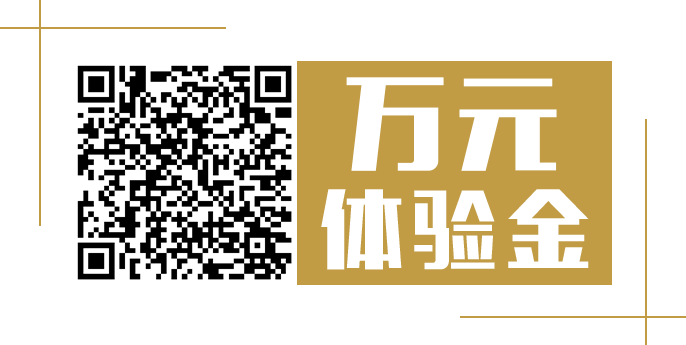
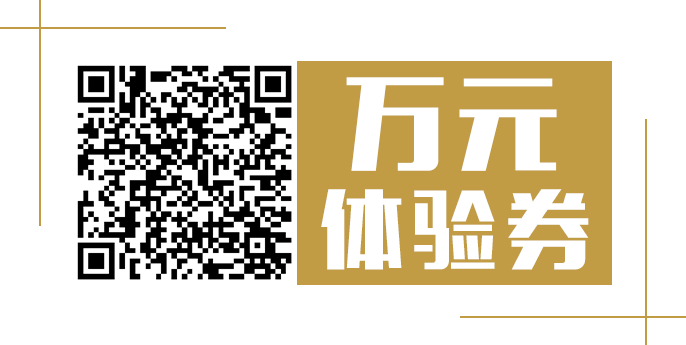
replaceimg

Changed region(s): [[0.7347, 0.5507, 0.8571, 0.7826]]

diff --git a/index.html b/index.html
@@ -424,7 +424,7 @@
               <br />
               即领
               <span class="yellow-color">10000</span>
-              元体验金
+              元体验券
               <br />
               首投后还有新手红包等你领
             </p>
